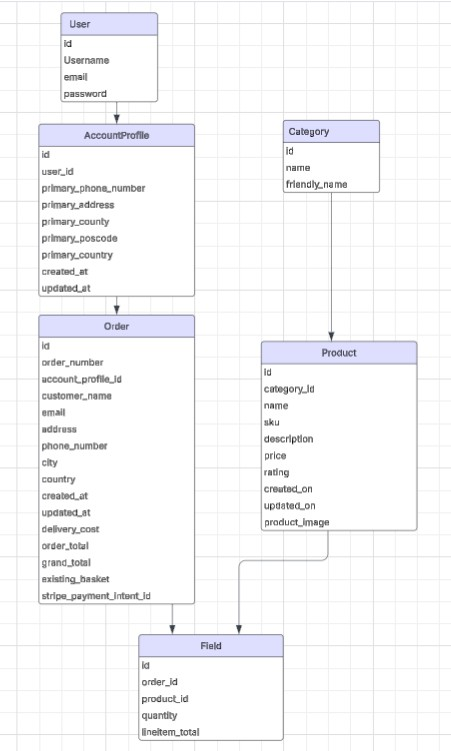
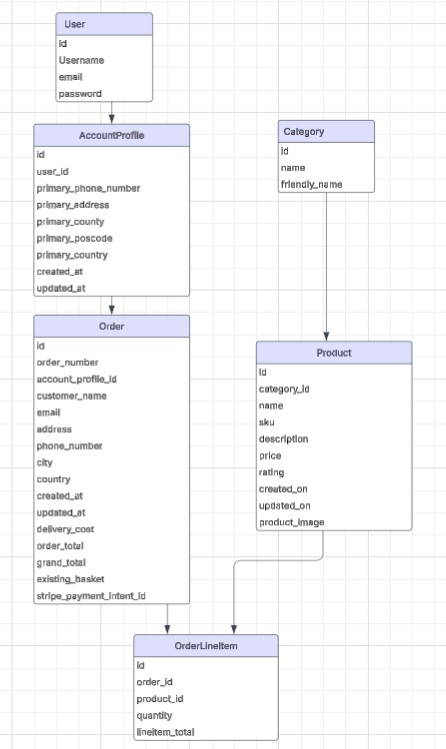
Update database design

diff --git a/README.md b/README.md
@@ -18,6 +18,13 @@ To maintain eco-friendly theme, 3 main colours were used Green, Azure and white.
 |Order|1 --> *|OrderLineItem|One-to-Many|
 |Product|1 --> *|OrderLineItem|One-to-Many|
 
+* **User** has exactly one **AccountProfile**.
+* **AccountProfile** can have multiple **Orders**.
+* **Order** has multiple **OrderLineItems**.
+* **Product** can appear in multiple **OrderLineItems**.
+* **Category** groups **Products**
+
+### Entity Relationship Diagram
 ![database-design](/static/images/readme_images/features_images/database-design.jpg)
 #### Topograhy
 The Montserrat font was used  all through the website. For extended page ( Terms, Privacy, Returns, FAQ and Blog), arial font were used and Sans Serif is used as the backup.
